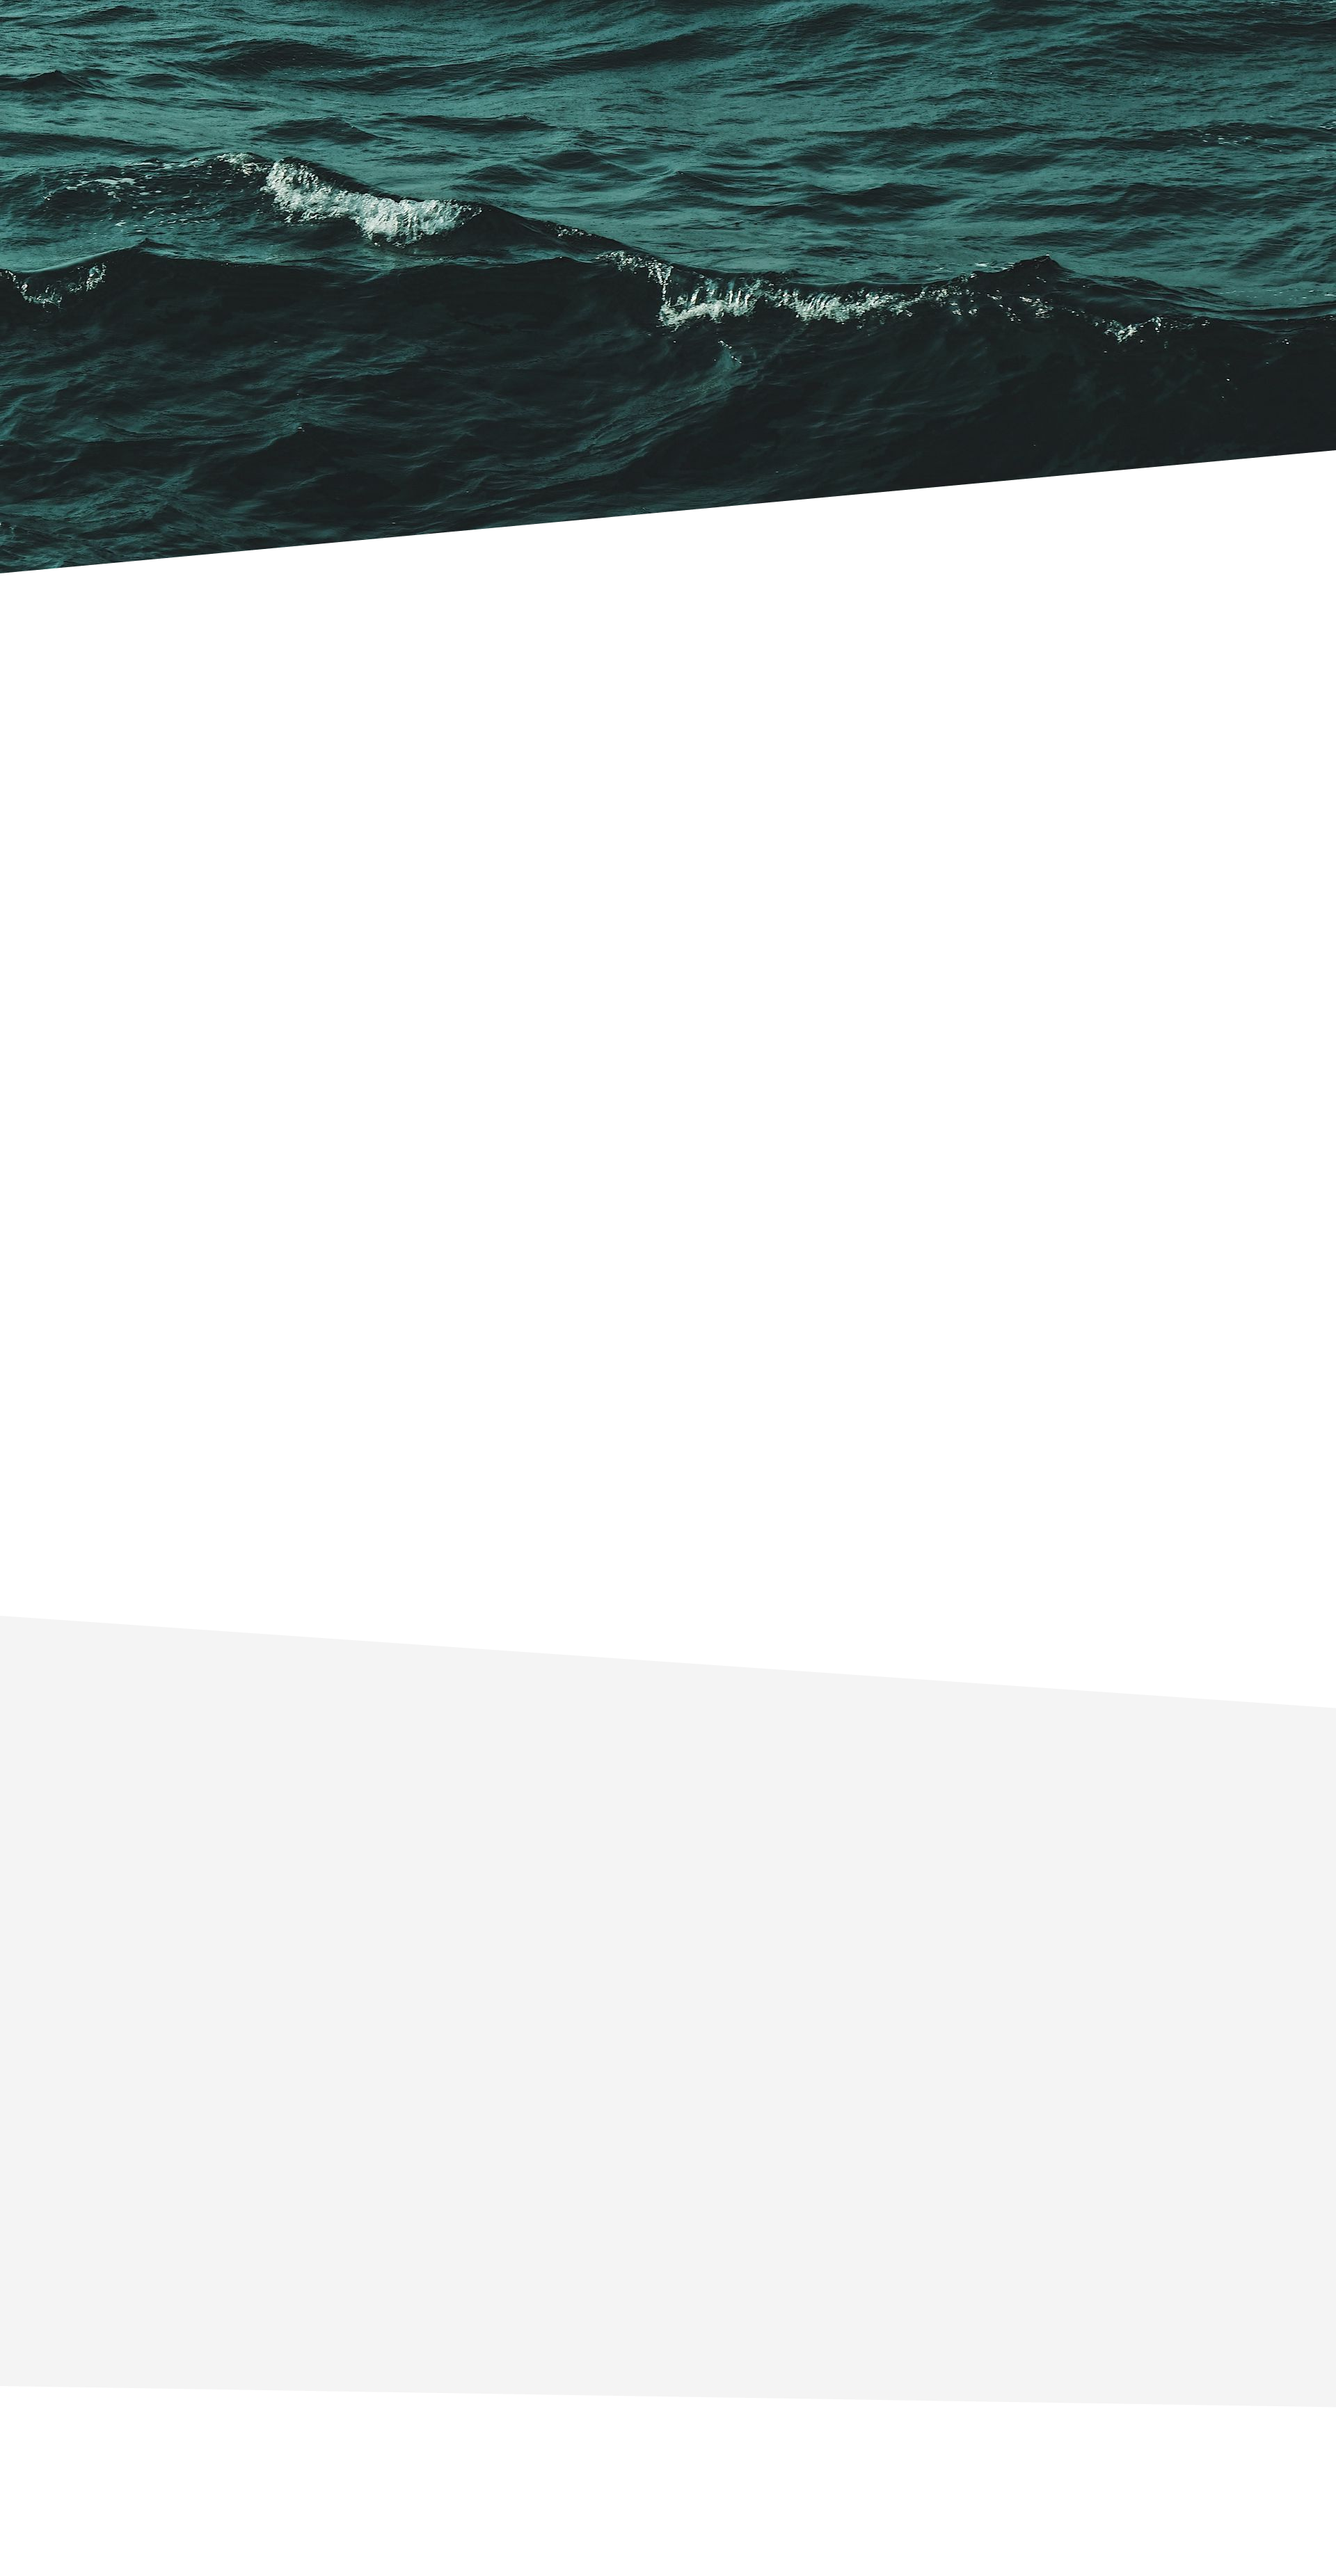
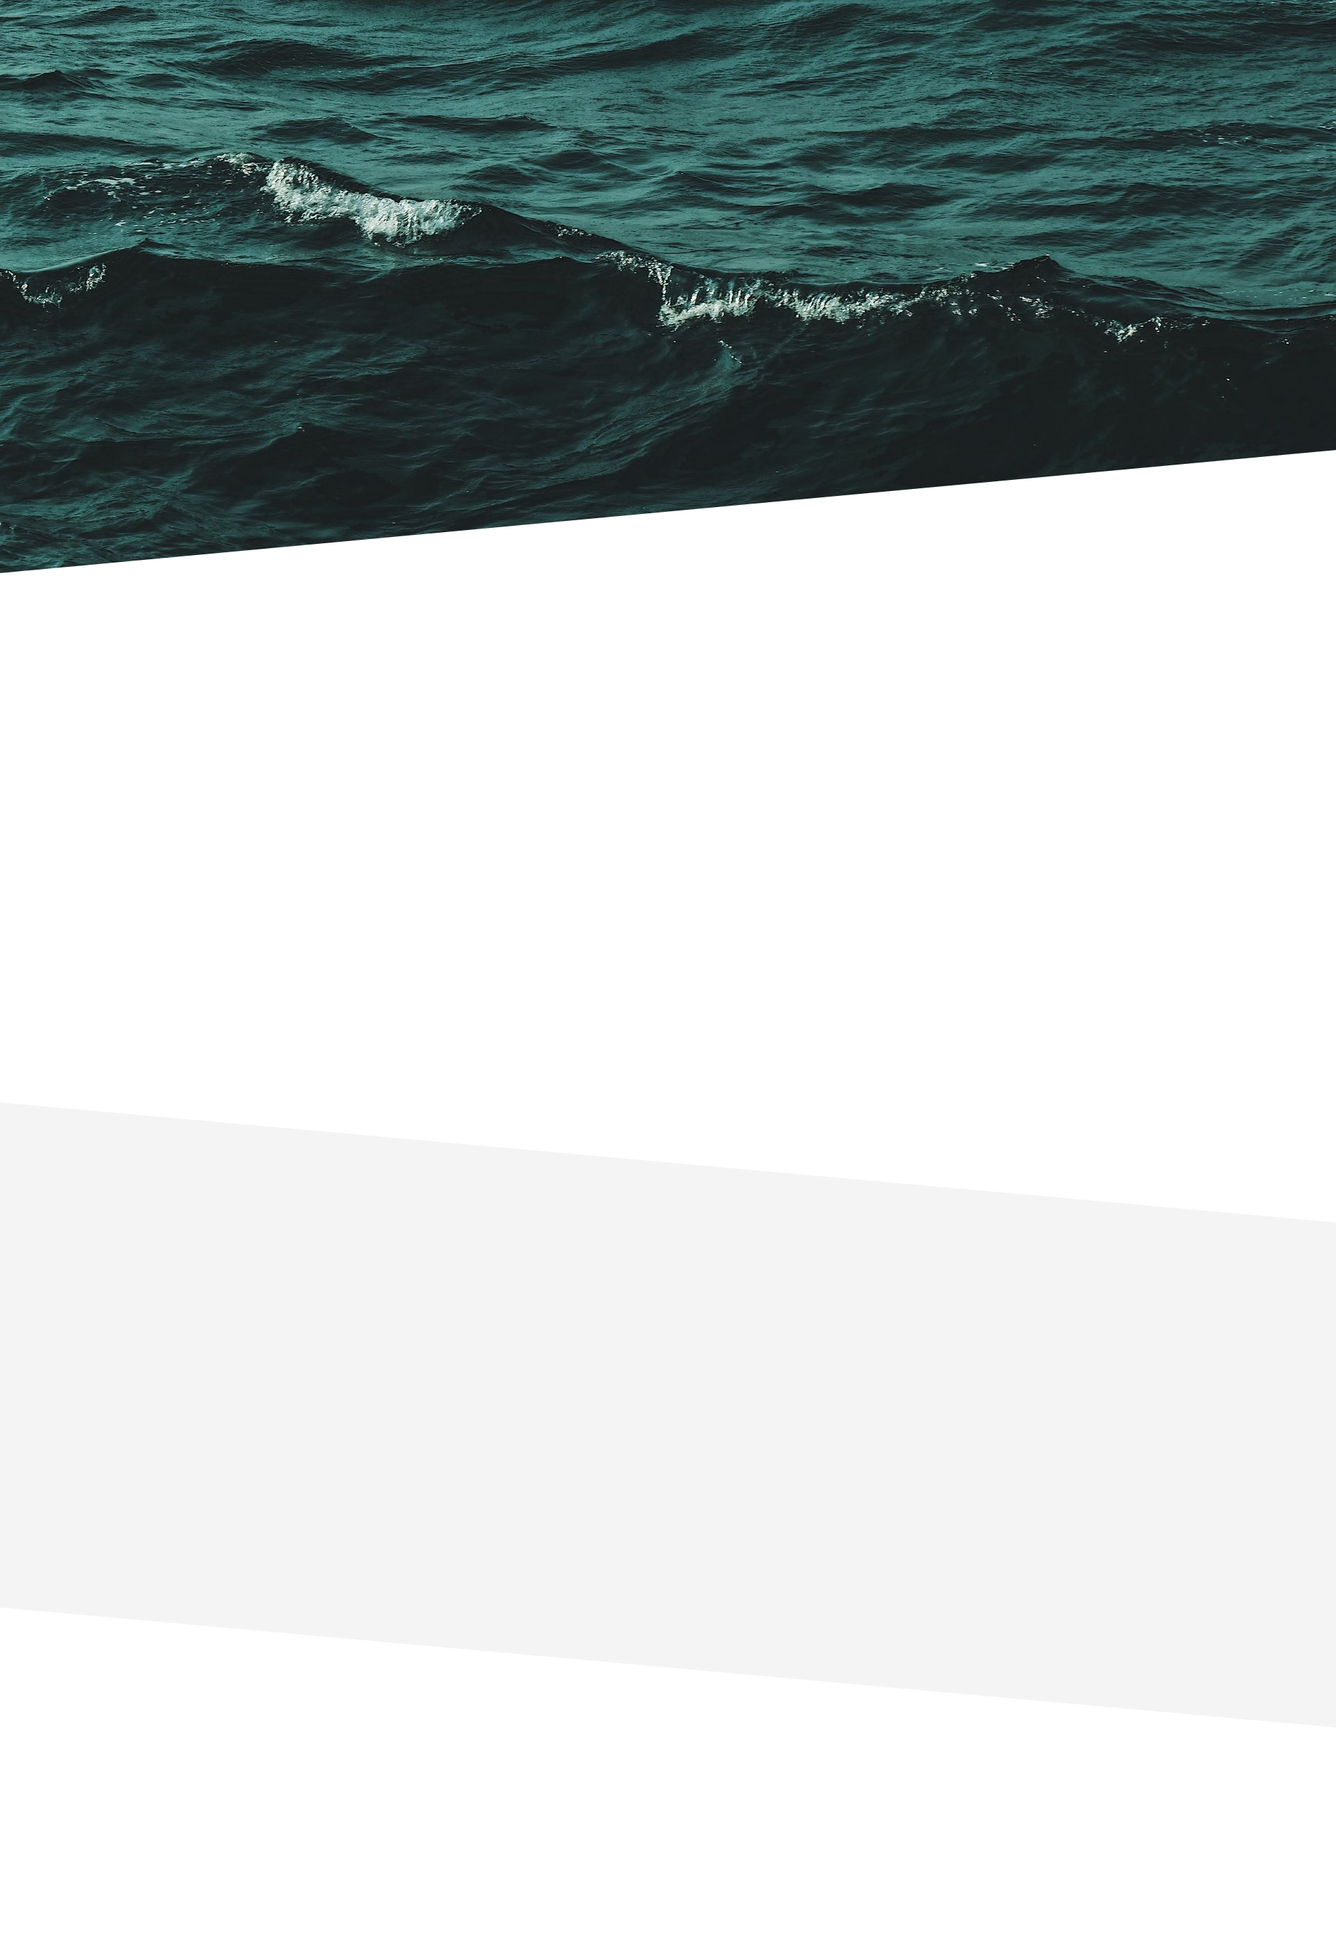
Add files via upload

Changed region(s): [[0.0, 0.0, 1.0, 0.3102]]

diff --git a/index.html b/index.html
@@ -39,7 +39,7 @@
                 <div class="snaraga">
                     <div class="korobka"><img src="./img/1.png" alt="" style="width: 330px; ">
                     <h3 style="padding-top: 15px; font-weight:500;">Снаряжение</h3>
-                    <button class="button1" style="margin: 30px;">Читать</button>
+                    <a href="./thc/thc1.html"><button class="button1" style="margin: 30px;">Читать</button></a>
                     </div>
                     
                 </div>
@@ -47,7 +47,7 @@
                 <div class="forma">
                     <div class="korobka2"><img src="./img/2.png" alt="" style="width: 330px;">
                     <h3 style="padding-top: 15px; font-weight:500;">Форма моряков</h3>
-                    <button class="button1" style="margin: 30px;">Читать</button>
+                    <a href="./thc/thc2.html"><button class="button1" style="margin: 30px;">Читать</button></a>
                     </div>
 
                 </div>
@@ -55,7 +55,7 @@
                 <div class="instra">
                     <div class="korobka3"><img src="./img/3.png" alt="" style="width: 330px;">
                     <h3 style="padding-top: 15px; font-weight:500;">Инструменты</h3>
-                    <button class="button1" style="margin: 30px;">Читать</button>
+                    <a href="./thc/thc3.html"><button class="button1" style="margin: 30px;">Читать</button></a>
                     </div></div>
 
             </div>

diff --git a/style.css b/style.css
@@ -5,10 +5,10 @@
 
 body {
 
-    background-image: url(./img/fon1.png);
+    background-image: url(./img/fon.png);
     background-repeat: no-repeat;
     width: 1920px;
-    height: 3702px;
+    height: 2550px;
     overflow-x:  hidden;
 }
 
@@ -47,6 +47,7 @@ body {
 	border-radius: 1px;
     width: 180px;
     height: 50px;
+    text-decoration: none;
     
 }
 
@@ -105,6 +106,7 @@ body {
     background-color: white;
     width: 330px;
     height: 420px;
+    text-decoration: none;
 }
 
 .korobka2 {
@@ -117,6 +119,7 @@ body {
     background-color: white;
     width: 330px;
     height: 420px;
+    text-decoration: none;
 }
 
 .korobka3 {
@@ -129,6 +132,7 @@ body {
     background-color: white;
     width: 330px;
     height: 420px;
+    text-decoration: none;
 }
 
 .button1 {
@@ -140,6 +144,7 @@ body {
 	border-radius: 1px;
     width: 180px;
     height: 50px;
+    text-decoration: none;
 }
 
 .button1:hover {
